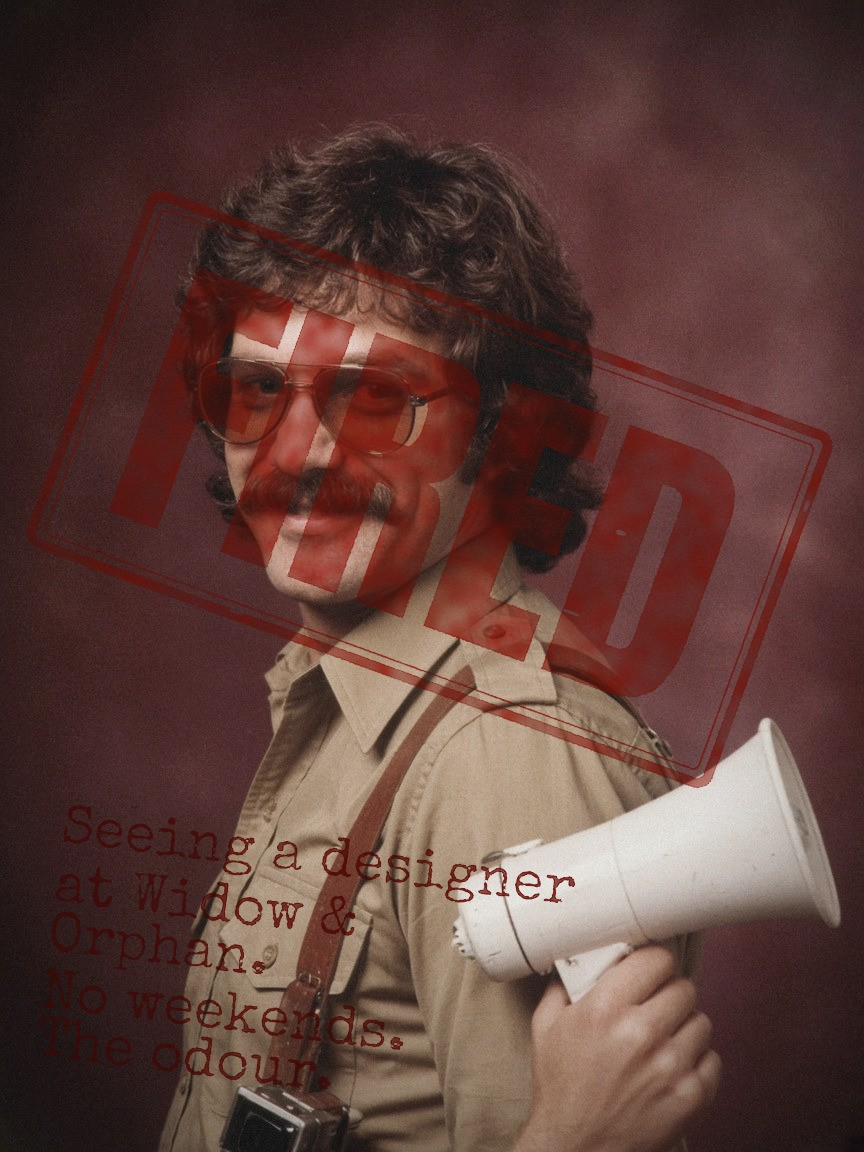
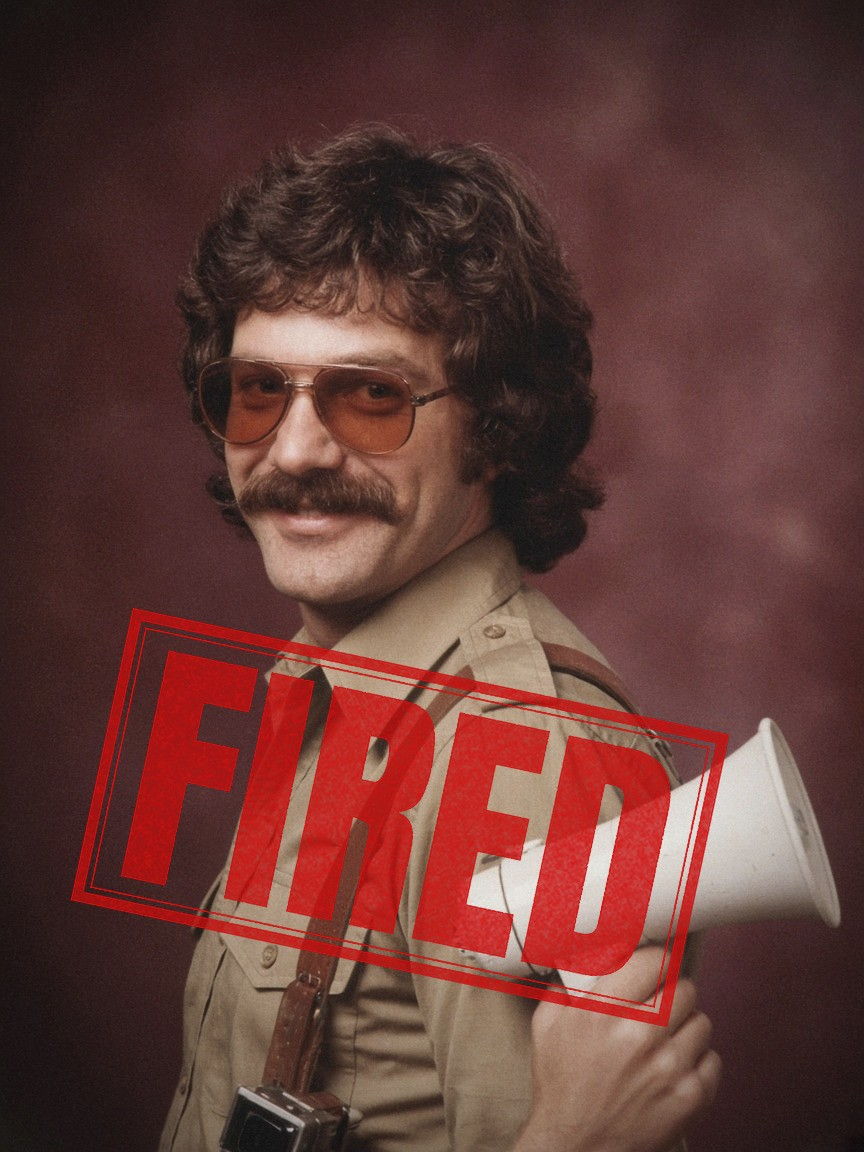
Preview: remake Rex’s FIRED stamp, stack the notice, and say the reasons plainly.
The v1 portrait is archived. The new stamp is a single opaque bright-red FIRED on the chest, not the face, with no text in the photograph. On desktop and mobile the copy sits under the picture, like the other news items. The wall uses the same picture and the same plain sentences.

diff --git a/preview-wy4u7thzbj5o/index.html b/preview-wy4u7thzbj5o/index.html
@@ -18,7 +18,7 @@
 <link rel="preconnect" href="https://fonts.googleapis.com">
 <link rel="preconnect" href="https://fonts.gstatic.com" crossorigin>
 <link href="https://fonts.googleapis.com/css2?family=Libre+Baskerville:ital,wght@0,400;0,700;1,400&family=Oswald:wght@500;600;700&family=Special+Elite&display=swap" rel="stylesheet">
-<link rel="stylesheet" href="style.css?v=7">
+<link rel="stylesheet" href="style.css?v=8">
 <style>
   header.mast .logo img{width:min(460px,88vw);height:auto}
 </style>
@@ -88,16 +88,14 @@
 
   <section class="front-news" aria-labelledby="news-h">
     <h2 class="sec-h" id="news-h">News from the loft</h2>
-    <article class="news news-wide news-portrait" id="rex-holbrook">
+    <article class="news news-fired" id="rex-holbrook">
       <a href="team/#former-employees">
         <figure class="card-pic">
-          <picture><source srcset="team/img/rex-holbrook-fired.webp?v=1" type="image/webp"><img src="team/img/rex-holbrook-fired.jpg?v=1" width="864" height="1152" alt="Studio portrait of Rex Holbrook, Film Director, overstamped FIRED in rust ink, with the reasons typed beneath: seeing a designer at Widow &amp; Orphan, no weekends, the odour" loading="lazy"></picture>
+          <picture><source srcset="team/img/rex-holbrook-fired.webp?v=2" type="image/webp"><img src="team/img/rex-holbrook-fired.jpg?v=2" width="864" height="1152" alt="Studio portrait of Rex Holbrook, Film Director: a bright red FIRED rubber stamp across the chest, the face unobstructed" loading="lazy"></picture>
         </figure>
-        <div>
-          <p class="kicker">Personnel · Effective immediately</p>
-          <h3 class="card-h">Cut. Print. Fired.</h3>
-          <p class="hook">Seeing a designer at Widow &amp; Orphan. No weekends. The odour.</p>
-        </div>
+        <p class="kicker">Personnel · Effective immediately</p>
+        <h3 class="card-h">Cut. Print. Fired.</h3>
+        <p class="hook">Film Director Rex Holbrook has been fired. He was having an affair with a graphic designer from rival agency Widow &amp; Orphan. He refused to work weekends. And he smelled.</p>
       </a>
     </article>
     <article class="news news-wide" id="living-large">

diff --git a/preview-wy4u7thzbj5o/style.css b/preview-wy4u7thzbj5o/style.css
@@ -318,12 +318,17 @@ a{color:inherit}
 .news-wide{margin:0 0 36px;padding:0 0 36px;border-bottom:1px solid var(--rule)}
 .news-wide a{display:grid;grid-template-columns:minmax(0,1.2fr) minmax(0,.8fr);gap:28px 32px;align-items:center;text-decoration:none}
 .news-wide .hook + .hook{margin-top:8px}
-.news-wide.news-portrait a{grid-template-columns:minmax(160px,240px) minmax(0,1fr)}
-.news-wide.news-portrait .card-pic{aspect-ratio:3/4;margin:0}
+.news-fired{margin:0 0 36px;padding:0 0 36px;border-bottom:1px solid var(--rule)}
+.news-fired a{display:block}
+.news-fired .card-pic{aspect-ratio:3/4;max-width:520px;width:100%;margin:0 0 16px}
+.news-fired .kicker{white-space:nowrap}
 .news-grid .news:nth-child(n+3){border-top:1px solid var(--rule);padding-top:36px}
 @media (max-width:700px){
-  .news-wide a{grid-template-columns:1fr;gap:16px}
-  .news-wide.news-portrait .card-pic{max-width:240px}
+  .news-wide a,
+  .news-wide.news-portrait a{display:grid;grid-template-columns:1fr;gap:16px}
+  .news-wide .card-pic,
+  .news-wide.news-portrait .card-pic,
+  .news-fired .card-pic{max-width:none;width:100%}
   .front-staff{grid-template-columns:1fr;gap:32px}
   .front-staff .eotm{max-width:240px}
   .news-grid{grid-template-columns:1fr;gap:0}
